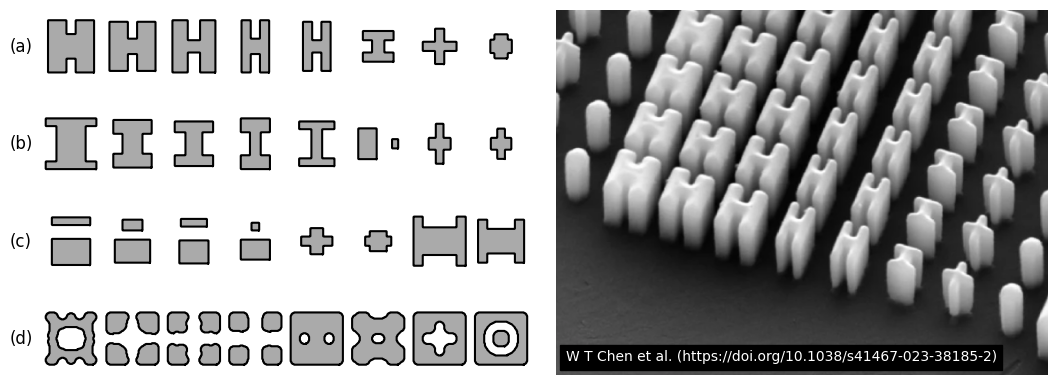
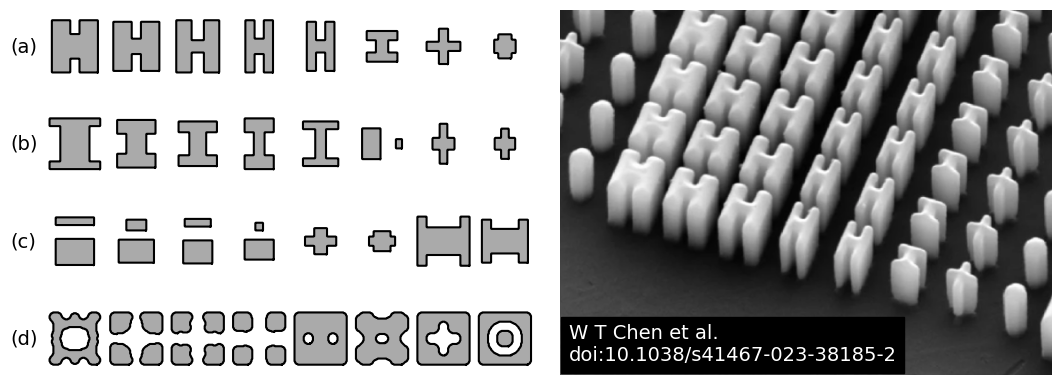
increase fontsize

diff --git a/docs/index.md b/docs/index.md
@@ -6,8 +6,8 @@ The leaderboard is a database of user-generated solutions to optical/photonic de
 
 High-quality, highly-manufacturable solutions to gym challenges can be of practical value. Many gym challenges are based on real-world photonic/optical design challenges--in areas such as color-filter-free imaging, large-area metalenses, and quantum information processing--and solutions can be directly fabricated. In fact, many solutions on the leaderboard have already been manufactured.
 
-| ![Meta-atom library designs](/img/meta_atom_library_designs.png) | 
-|:--:| 
-| *Solutions to the meta-atom library challenges. (a)-(c) are from “[Dispersion-engineered metasurfaces reaching broadband 90% relative diffraction efficiency](https://www.nature.com/articles/s41467-023-38185-2)” by Chen et al., and (d) was contributed by @mfschubert. The right panel is a SEM image of a fabricated metagrating based on design (a).* |
+| ![Meta-atom library designs](/img/meta_atom_library_designs.png) |
+|:--:|
+| *Solutions to the meta-atom library challenge from (a)-(c) “[Dispersion-engineered metasurfaces reaching broadband 90% relative diffraction efficiency](https://www.nature.com/articles/s41467-023-38185-2)” by Chen et al. and (d) submitted by @mfschubert. The right panel is a SEM image of a fabricated metagrating using design (a).* |
 
 Therefore, _algorithms_ which reliably obtain high-quality, manufacturable soltutions to gym challenges are valuable. The joint purpose of the invrs-gym and leaderboard are to aid and accelerate the development of such algorithms.
